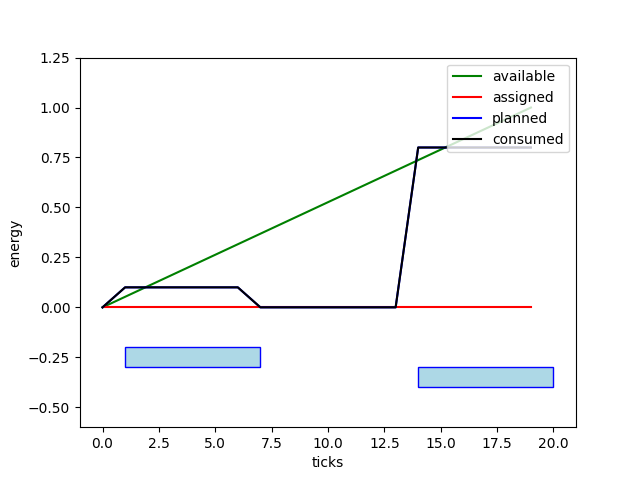
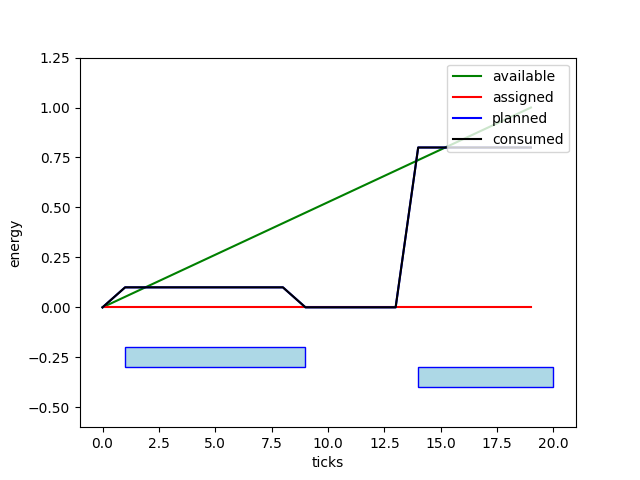
add NoDelayScheduler

Changed region(s): [[0.375, 0.5938, 0.5, 0.6562], [0.4062, 0.7188, 0.5, 0.7812]]

diff --git a/volttron_optimizer.py b/volttron_optimizer.py
@@ -40,6 +40,14 @@ class IScheduler(ABC):
         pass
 
 
+class NoDelayScheduler(IScheduler):
+    def schedule(self, available_energy: np.array, requests: List[Request]) -> Dict[int, int]:
+        return {
+            request.request_id: 0
+            for request in requests
+        }
+
+
 class BruteForceScheduler(IScheduler):
     def schedule(self, available_energy: np.array, requests: List[Request]) -> Dict[int, int]:
         if not requests:
@@ -251,7 +259,12 @@ class Hub:
 
     @property
     def score(self) -> float:
-        delta_energy = self.available_energy - self.planned_energy
+        available_energy = self.available_energy
+        planned_energy = self.planned_energy
+        ticks = max(len(available_energy), len(planned_energy))
+        delta_energy = np.zeros(ticks)
+        delta_energy[:len(available_energy)] += available_energy
+        delta_energy[:len(planned_energy)] -= planned_energy
 
         energy_lost = sum(delta_energy[delta_energy < 0])
         energy_to_buy = sum(delta_energy[delta_energy > 0])

diff --git a/example_comparision.py b/example_comparision.py
@@ -5,10 +5,10 @@ if __name__ == '__main__':
     seed0()
 
     solar_panel_profile = np.linspace(0, 1, 20)
-    request1 = Request(1, 'teapot', 0.1 * np.ones(6), 99)
+    request1 = Request(1, 'teapot', 0.1 * np.ones(8), 99)
     request2 = Request(2, 'oven', 0.8 * np.ones(6), 99)
 
-    for scheduler_class in LinearProgrammingScheduler, BruteForceScheduler:
+    for scheduler_class in NoDelayScheduler, LinearProgrammingScheduler, BruteForceScheduler:
         scheduler = scheduler_class(lookahead=20)
         hub = Hub(scheduler)
 
@@ -17,5 +17,6 @@ if __name__ == '__main__':
         hub.add_request(request2, autoschedule=False)
         hub.schedule()
 
-        hub.visualize(20).savefig(f'img/example_comparision_{scheduler_class.__name__}.png')
-        print(hub.score)
+        scheduler_name = scheduler_class.__name__
+        print(scheduler_name, hub.score)
+        hub.visualize(20).savefig(f'img/example_comparision_{scheduler_name}.png')
